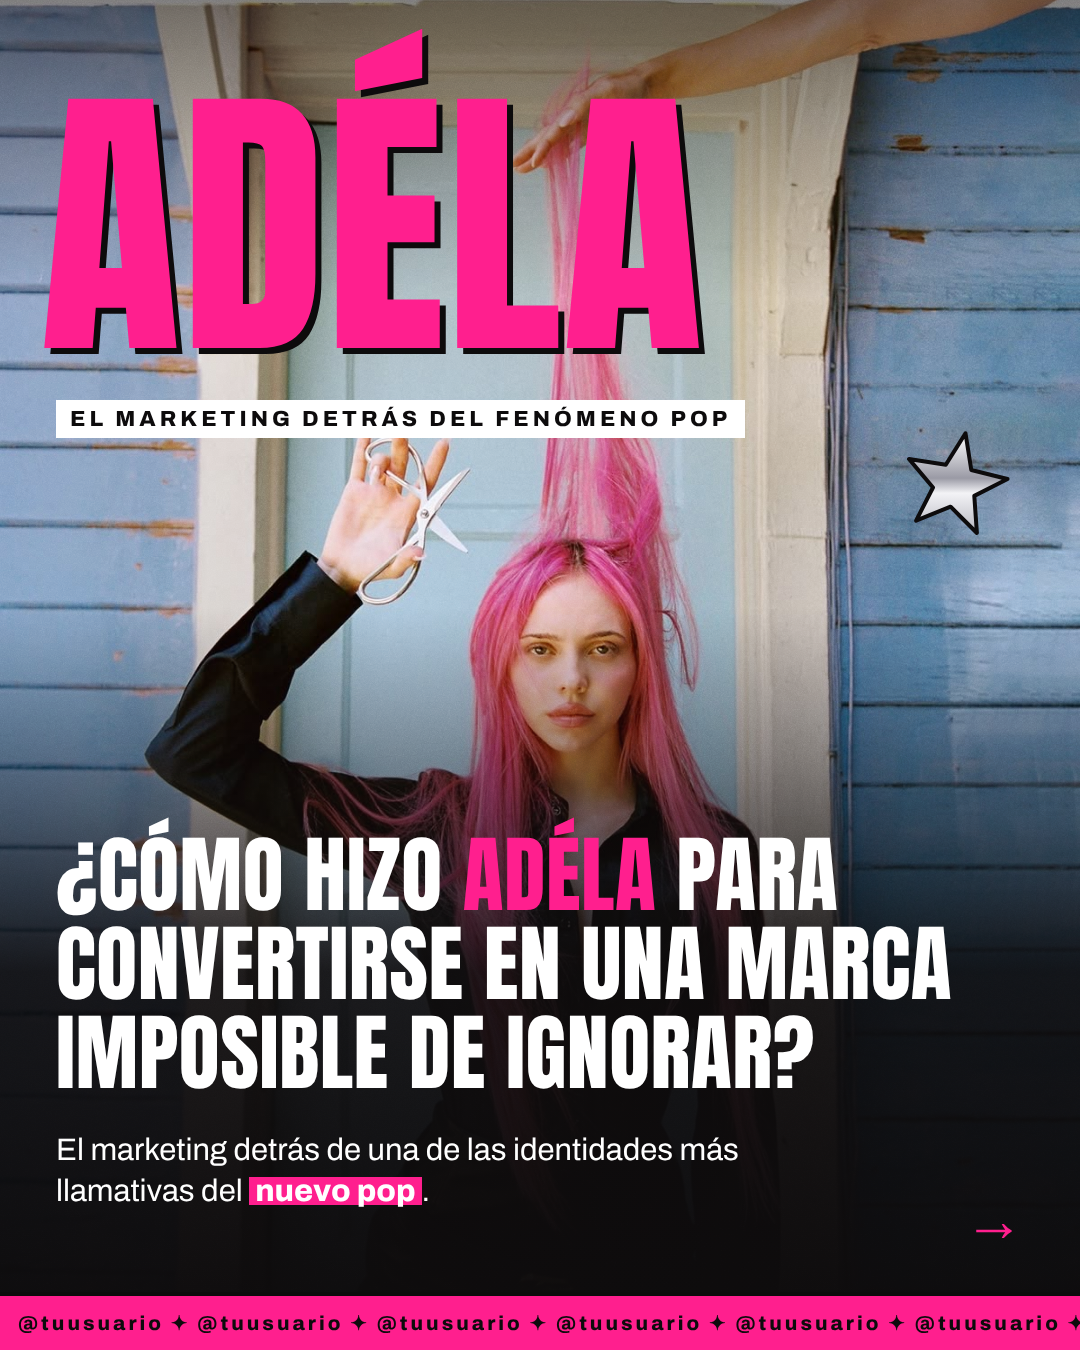
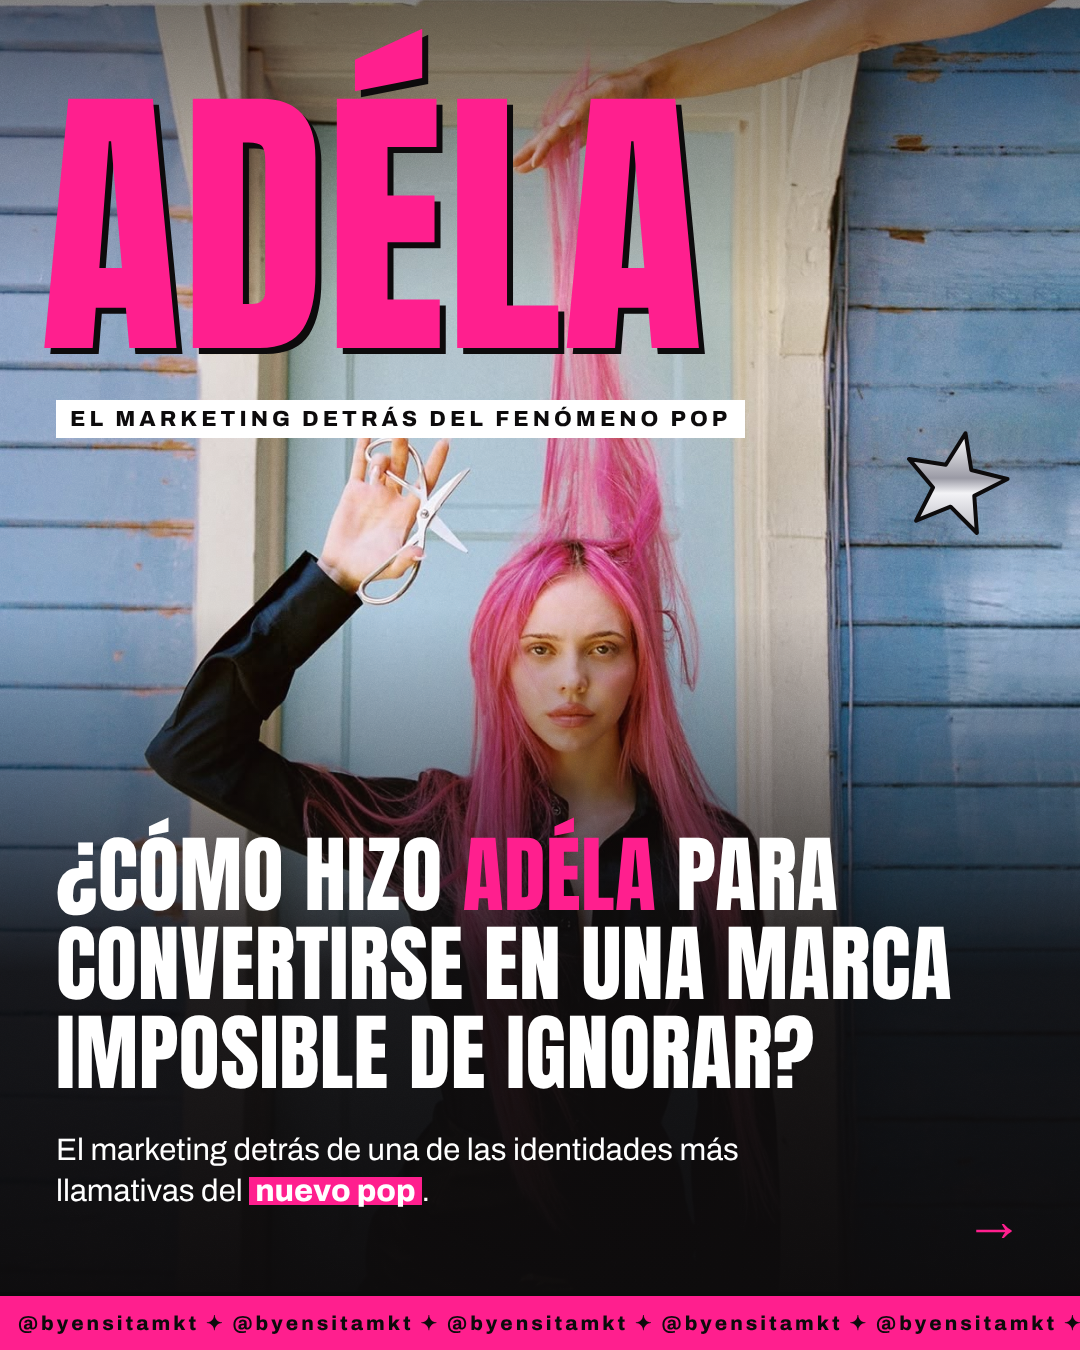
Carrusel ADÉLA: usuario @byensitamkt
Claude-Session: https://claude.ai/code/session_01EttaFwFcyCceR8tBVwHGLn

Changed region(s): [[0.0306, 0.9644, 1.0, 0.9956]]

diff --git a/carrusel-prima/adela-v3.html b/carrusel-prima/adela-v3.html
@@ -6,7 +6,7 @@
 <link rel="stylesheet" href="fonts.css">
 <style>
   /* ====== EDITA AQUÍ TU USUARIO ====== */
-  :root{ --handle:"@tuusuario"; --fucsia:#ff1f8e; --fucsia2:#ff3d9e; --negro:#141012; }
+  :root{ --handle:"@byensitamkt"; --fucsia:#ff1f8e; --fucsia2:#ff3d9e; --negro:#141012; }
   *{box-sizing:border-box;margin:0;padding:0}
   body{background:#222;display:flex;flex-direction:column;gap:40px;align-items:center;padding:40px 0}
   .slide{position:relative;width:1080px;height:1350px;overflow:hidden;background:var(--fucsia);color:var(--negro)}

diff --git a/carrusel-prima/adela-marketing.html b/carrusel-prima/adela-marketing.html
@@ -7,7 +7,7 @@
 <style>
   /* ====== EDITA AQUÍ TU USUARIO ====== */
   :root{
-    --handle:"@tuusuario";
+    --handle:"@byensitamkt";
     --fucsia:#ff1f8e; --negro:#0d0b0c; --papel:#f6f1ea; --plata:#d4d4da;
     --chrome:linear-gradient(180deg,#ffffff 0%,#d9d9e0 30%,#8e8e99 49%,#f2f2f6 58%,#b4b4bd 78%,#ffffff 100%);
   }

diff --git a/carrusel-prima/adela-v2.html b/carrusel-prima/adela-v2.html
@@ -7,7 +7,7 @@
 <style>
   /* ====== EDITA AQUÍ TU USUARIO ====== */
   :root{
-    --handle:"@tuusuario";
+    --handle:"@byensitamkt";
     --fucsia:#ff1f8e; --negro:#0d0b0c; --blanco:#fff; --plata:#d6d6dc;
     --chrome:linear-gradient(180deg,#ffffff 0%,#dcdce2 30%,#8f8f9a 49%,#f3f3f6 58%,#b6b6bf 78%,#ffffff 100%);
   }

diff --git a/carrusel-prima/carrusel.html b/carrusel-prima/carrusel.html
@@ -7,7 +7,7 @@
 <style>
   /* ====== EDITA AQUÍ TU USUARIO ====== */
   :root{
-    --handle: "@tuusuario";
+    --handle: "@byensitamkt";
     --fucsia:#ff1f8e;
     --fucsia-deep:#e0127a;
     --negro:#0d0b0c;
